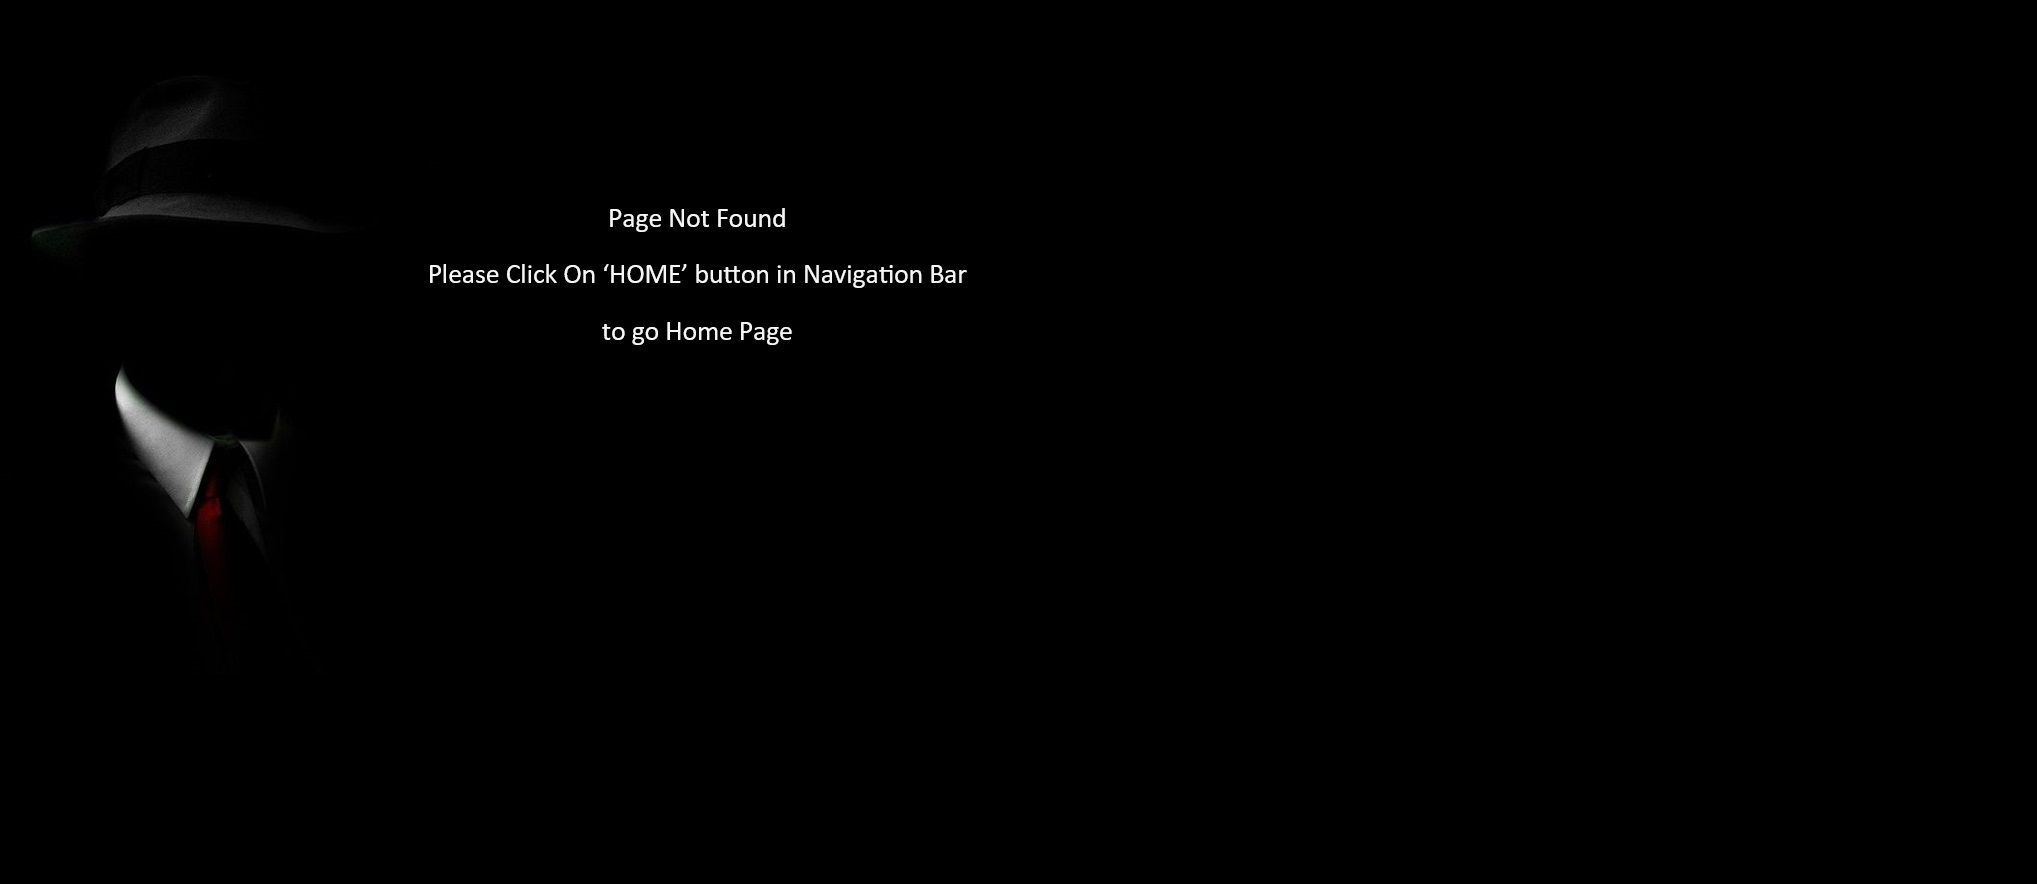
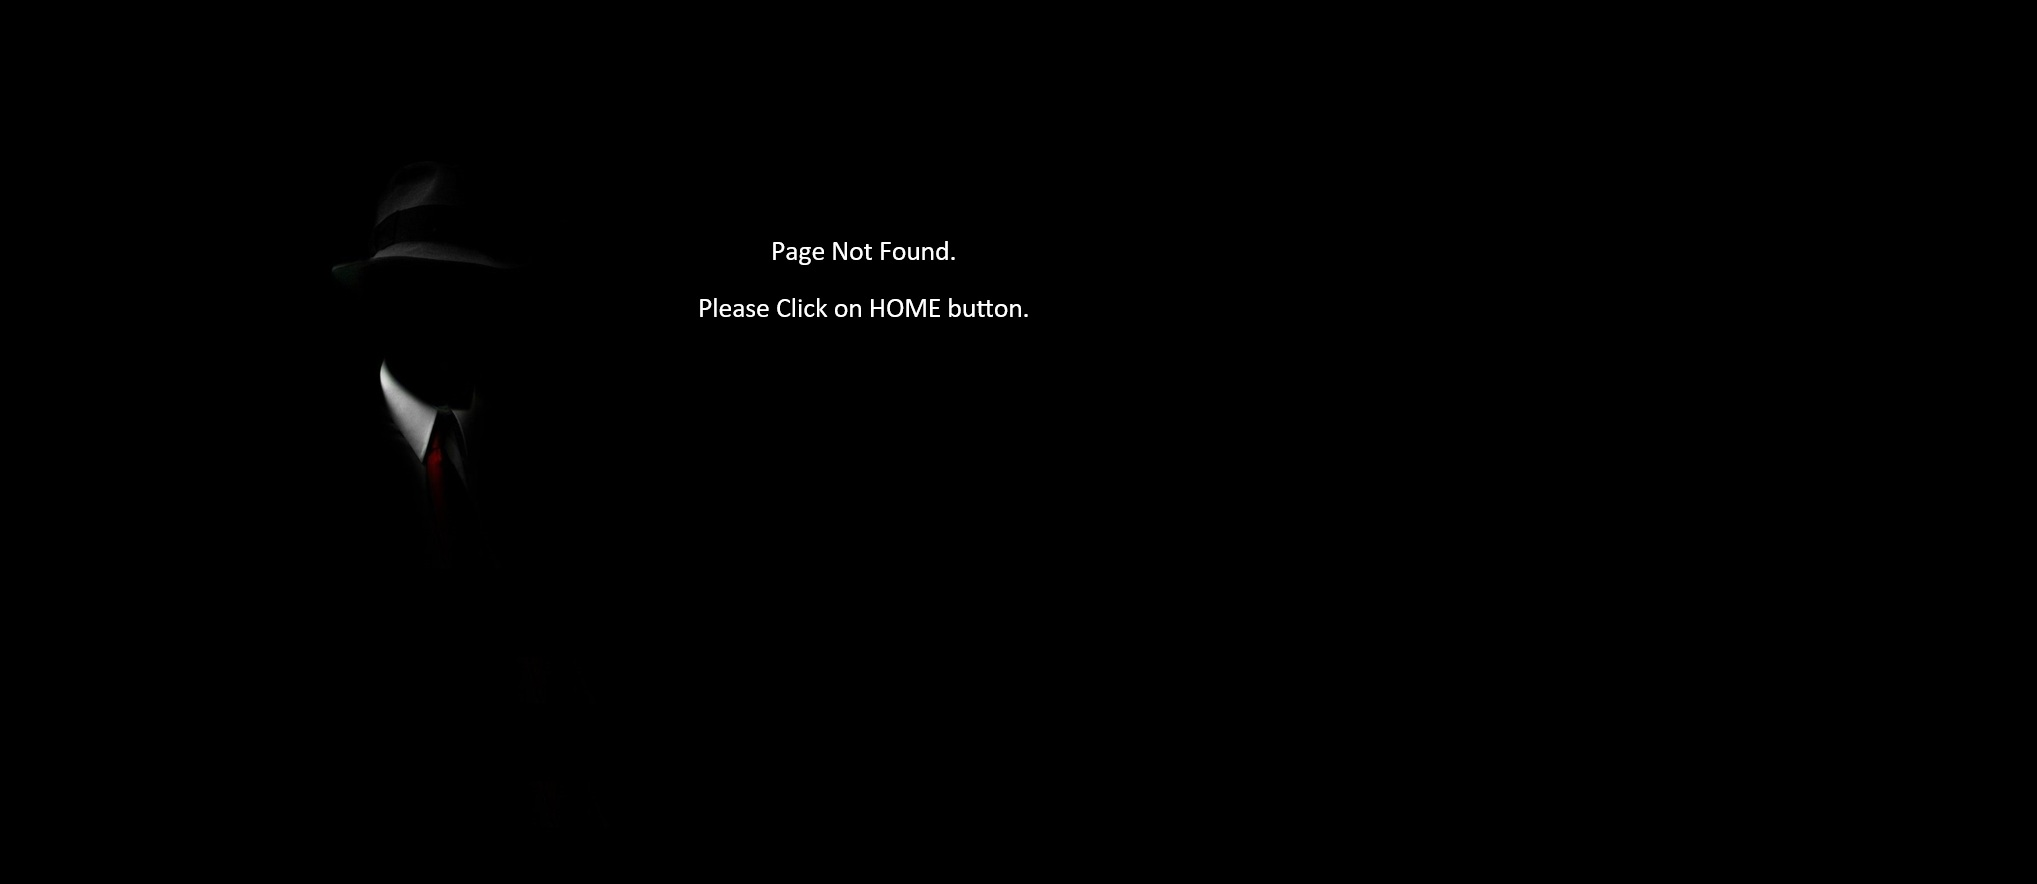
some styling on footer,contact,PageNotFound

diff --git a/src/main.jsx b/src/main.jsx
@@ -6,7 +6,7 @@ import './index.css';
 
 // Bringing in the pages the router will use to conditionally show the appropriate views
 import App from './App';
-import ErrorPage from './pages/PageNotFound.jsx';
+import PageNotFound from './pages/PageNotFound.jsx';
 import Home from './pages/Home.jsx';
 import About from './pages/About.jsx';
 import Menu from './pages/Menu.jsx';
@@ -19,7 +19,7 @@ const router = createBrowserRouter([
   {
     path: '/',
     element: <App />,
-    errorElement: <ErrorPage />,
+    errorElement: <PageNotFound />,
     children: [
       {
         index: true,
@@ -37,6 +37,7 @@ const router = createBrowserRouter([
         path: 'contact',
         element: <Contact />,
       },
+      
     ],
   },
 ]);

diff --git a/src/styles/PageNotFound.css b/src/styles/PageNotFound.css
@@ -1,6 +1,35 @@
-.container {
+  .backGround{
+    background-color: black;
+    height: 1080px;
+    width: 100%;
+  }
+  .errorImage {
     position: relative;
-    height: 100%;
     width: 100%;
   }
   
+  .errorImage  {
+    width: 100%;
+    height: 100%;
+  }
+  
+  .homeButton {
+    position: absolute;
+    top: 50%;
+    left: 50%;
+    transform: translate(-50%, -50%);
+    -ms-transform: translate(-50%, -50%);
+    background-color: #555;
+    color: white;
+    font-size: 40px;
+    padding: 12px 24px;
+    border: white solid;
+    cursor: pointer;
+    border-radius: 5px;
+    text-align: center;
+  }
+  
+  .errorImage .homeButton:hover {
+    background-color: black;
+    font-size: 50px;
+  }

diff --git a/src/pages/PageNotFound.jsx b/src/pages/PageNotFound.jsx
@@ -1,15 +1,22 @@
-
 import ErrorImage from "../images/404.jpg";
+import { NavLink } from "react-router-dom";
 import "../styles/PageNotFound.css"
 
 
 const PageNotFound = () => {
   return (
     <>
+    <div className="backGround">
 
-          <img src={ErrorImage}  alt="error page" />
+        <div className="errorImage">
+          <img src={ErrorImage}  alt="error page" className="errorImage"/>
+          <NavLink activeClassName="active" to={"/"}>
+            <button className="homeButton">Home</button>      
+          </NavLink>
 
+        </div>
 
+    </div>
     </>
   );
 };

diff --git a/src/components/Carousel.jsx b/src/components/Carousel.jsx
@@ -48,7 +48,7 @@ function Carousel({ images }) {
             >
               <img className="card_image" src={image.image} alt="" />
               <div className="card_overlay">
-                <a href="https://wiseguyswwarwick.cuteorder.com" target="blank"><button>ORDER NOW</button></a>
+                <a href="https://wiseguyswwarwick.cuteorder.com" target="blank"><button className="orderButton">ORDER NOW</button></a>
               </div>
             </div>
           );

diff --git a/src/styles/Footer.css b/src/styles/Footer.css
@@ -48,6 +48,16 @@ a {
   
   @media screen and (max-width: 960px) {
   
+
+    .footer {
+      display: flex;
+      flex-direction: column;
+      justify-items: center;
+      justify-content: center;
+      text-align: center;
+      background-color: #1A1A19; 
+      color: white;
+      }
   .store {
     display: flex;
     flex-direction: column;

diff --git a/src/styles/Carousel.css b/src/styles/Carousel.css
@@ -46,7 +46,7 @@
   align-items: flex-end;
 }
 
-button {
+.orderButton {
   color: white;
   background-color: transparent;
   color: aqua;
@@ -103,7 +103,7 @@ button {
   cursor: pointer;
 }
 
-button:hover {
+.orderButton:hover {
   transform: scale(1.1);
   color: goldenrod;
   border-color: goldenrod;

diff --git a/src/styles/Contact.css b/src/styles/Contact.css
@@ -30,7 +30,11 @@
         flex-direction: column;
         align-items: center;
         justify-content: center;
-        max-width: 660;
+        max-width: 800;
+    }
+
+    .contact1, .contact2 {
+        max-width: 320px;
     }
     
     

diff --git a/src/App.jsx b/src/App.jsx
@@ -8,7 +8,7 @@ function App() {
   return (
     <>
       <Navbar />
-      <Outlet />
+       <Outlet />
       <Footer />
 
     </>
